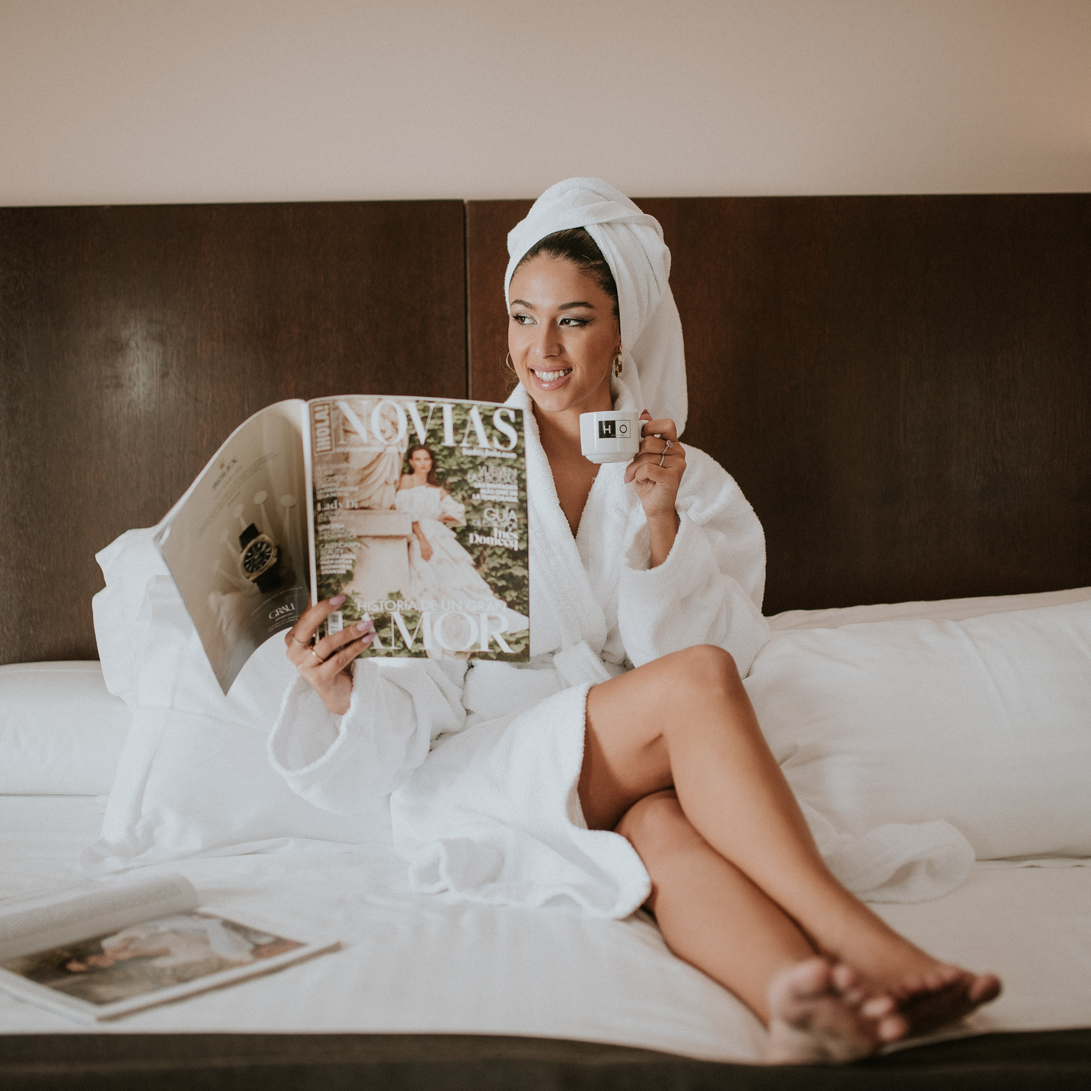
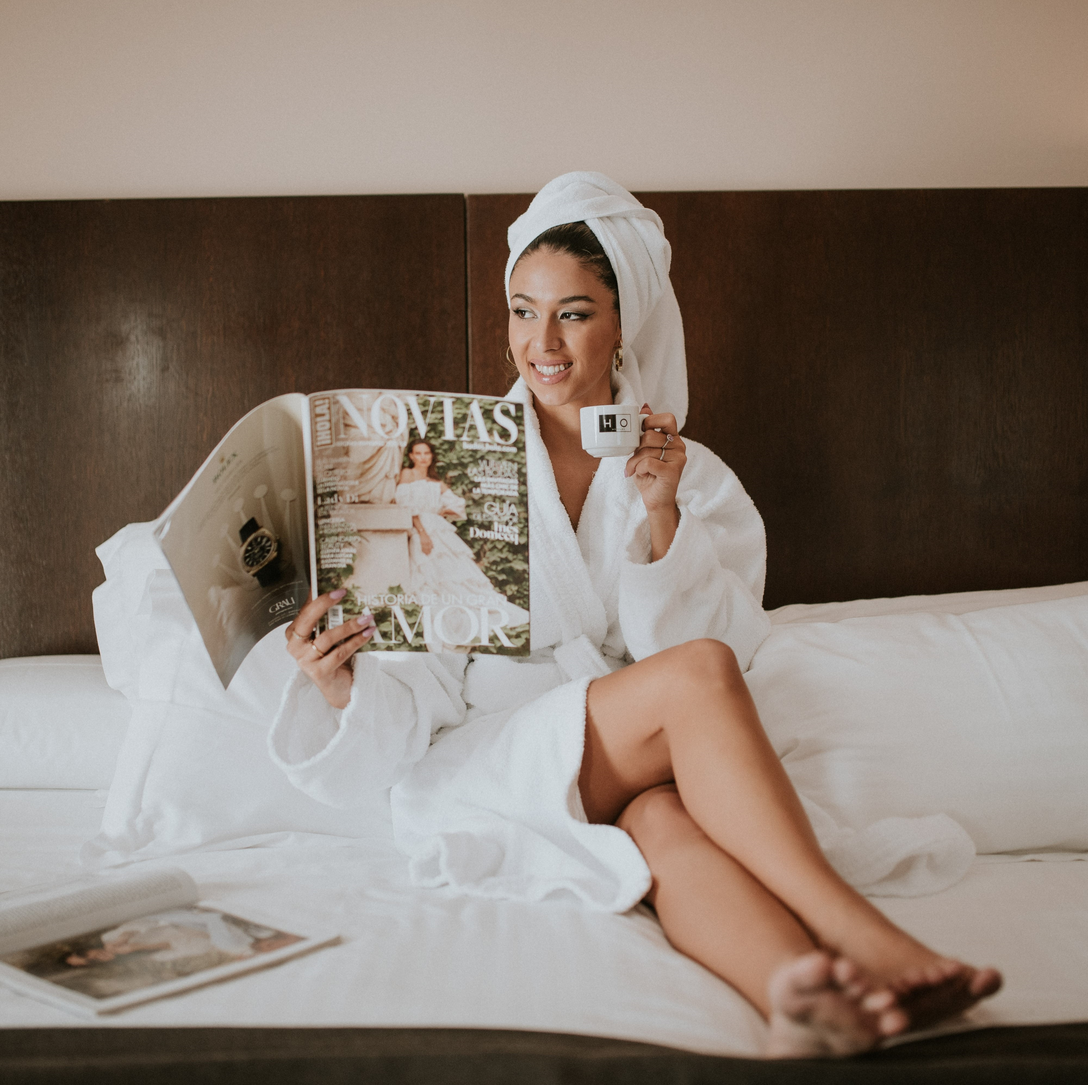
V4 cambio img de confirmacion

diff --git a/css/styles.css b/css/styles.css
@@ -401,15 +401,17 @@ color: #0ac442;
 
 .container__cards{
   width:100%;
-  margin: auto;
-  display: flex;
-  flex-wrap: wrap;
-  justify-content: center;
-  align-items: center;
+    margin: auto;
+    display: flex;
+    flex-wrap: wrap;
+    justify-content: center;
+    
+    
+  
 }
 
 .card{
-  width: 65%;
+  width: 350px;
   margin: 10px;
   padding: 20px;
   box-shadow: 20px 20px 50px rgba(0,0,0,0.5);
@@ -423,16 +425,18 @@ color: #0ac442;
 }
 
 .cover__card{
-  width: 58%;
-  height: 180px;
+  width: 100%;
+  height: 270px;
   border-radius: 14px;
   overflow: hidden;
-  margin-left: 55px;
+  
 }
 
 .cover__card img{
+  width: 100%;
   height: 100%;
   transition: all 300ms;
+  
   
   
 }

diff --git a/index.html b/index.html
@@ -323,7 +323,7 @@
         <div class="container__cards">
           <div class="card">
             <div class="cover__card">
-              <img src="/img/30D35183-446A-40E2-9E0B-D86F34AC046D.jpg" alt="" />
+              <img src="/img/WhatsApp Image 2022-02-09 at 18.37.24.jpeg" alt="" />
             </div>
             <h2>CONFÍRMANOS TU ASISTENCIA AQUÍ:</h2>
             <a href="#" class="scroll__button_confirmacion" id="reproducir"
